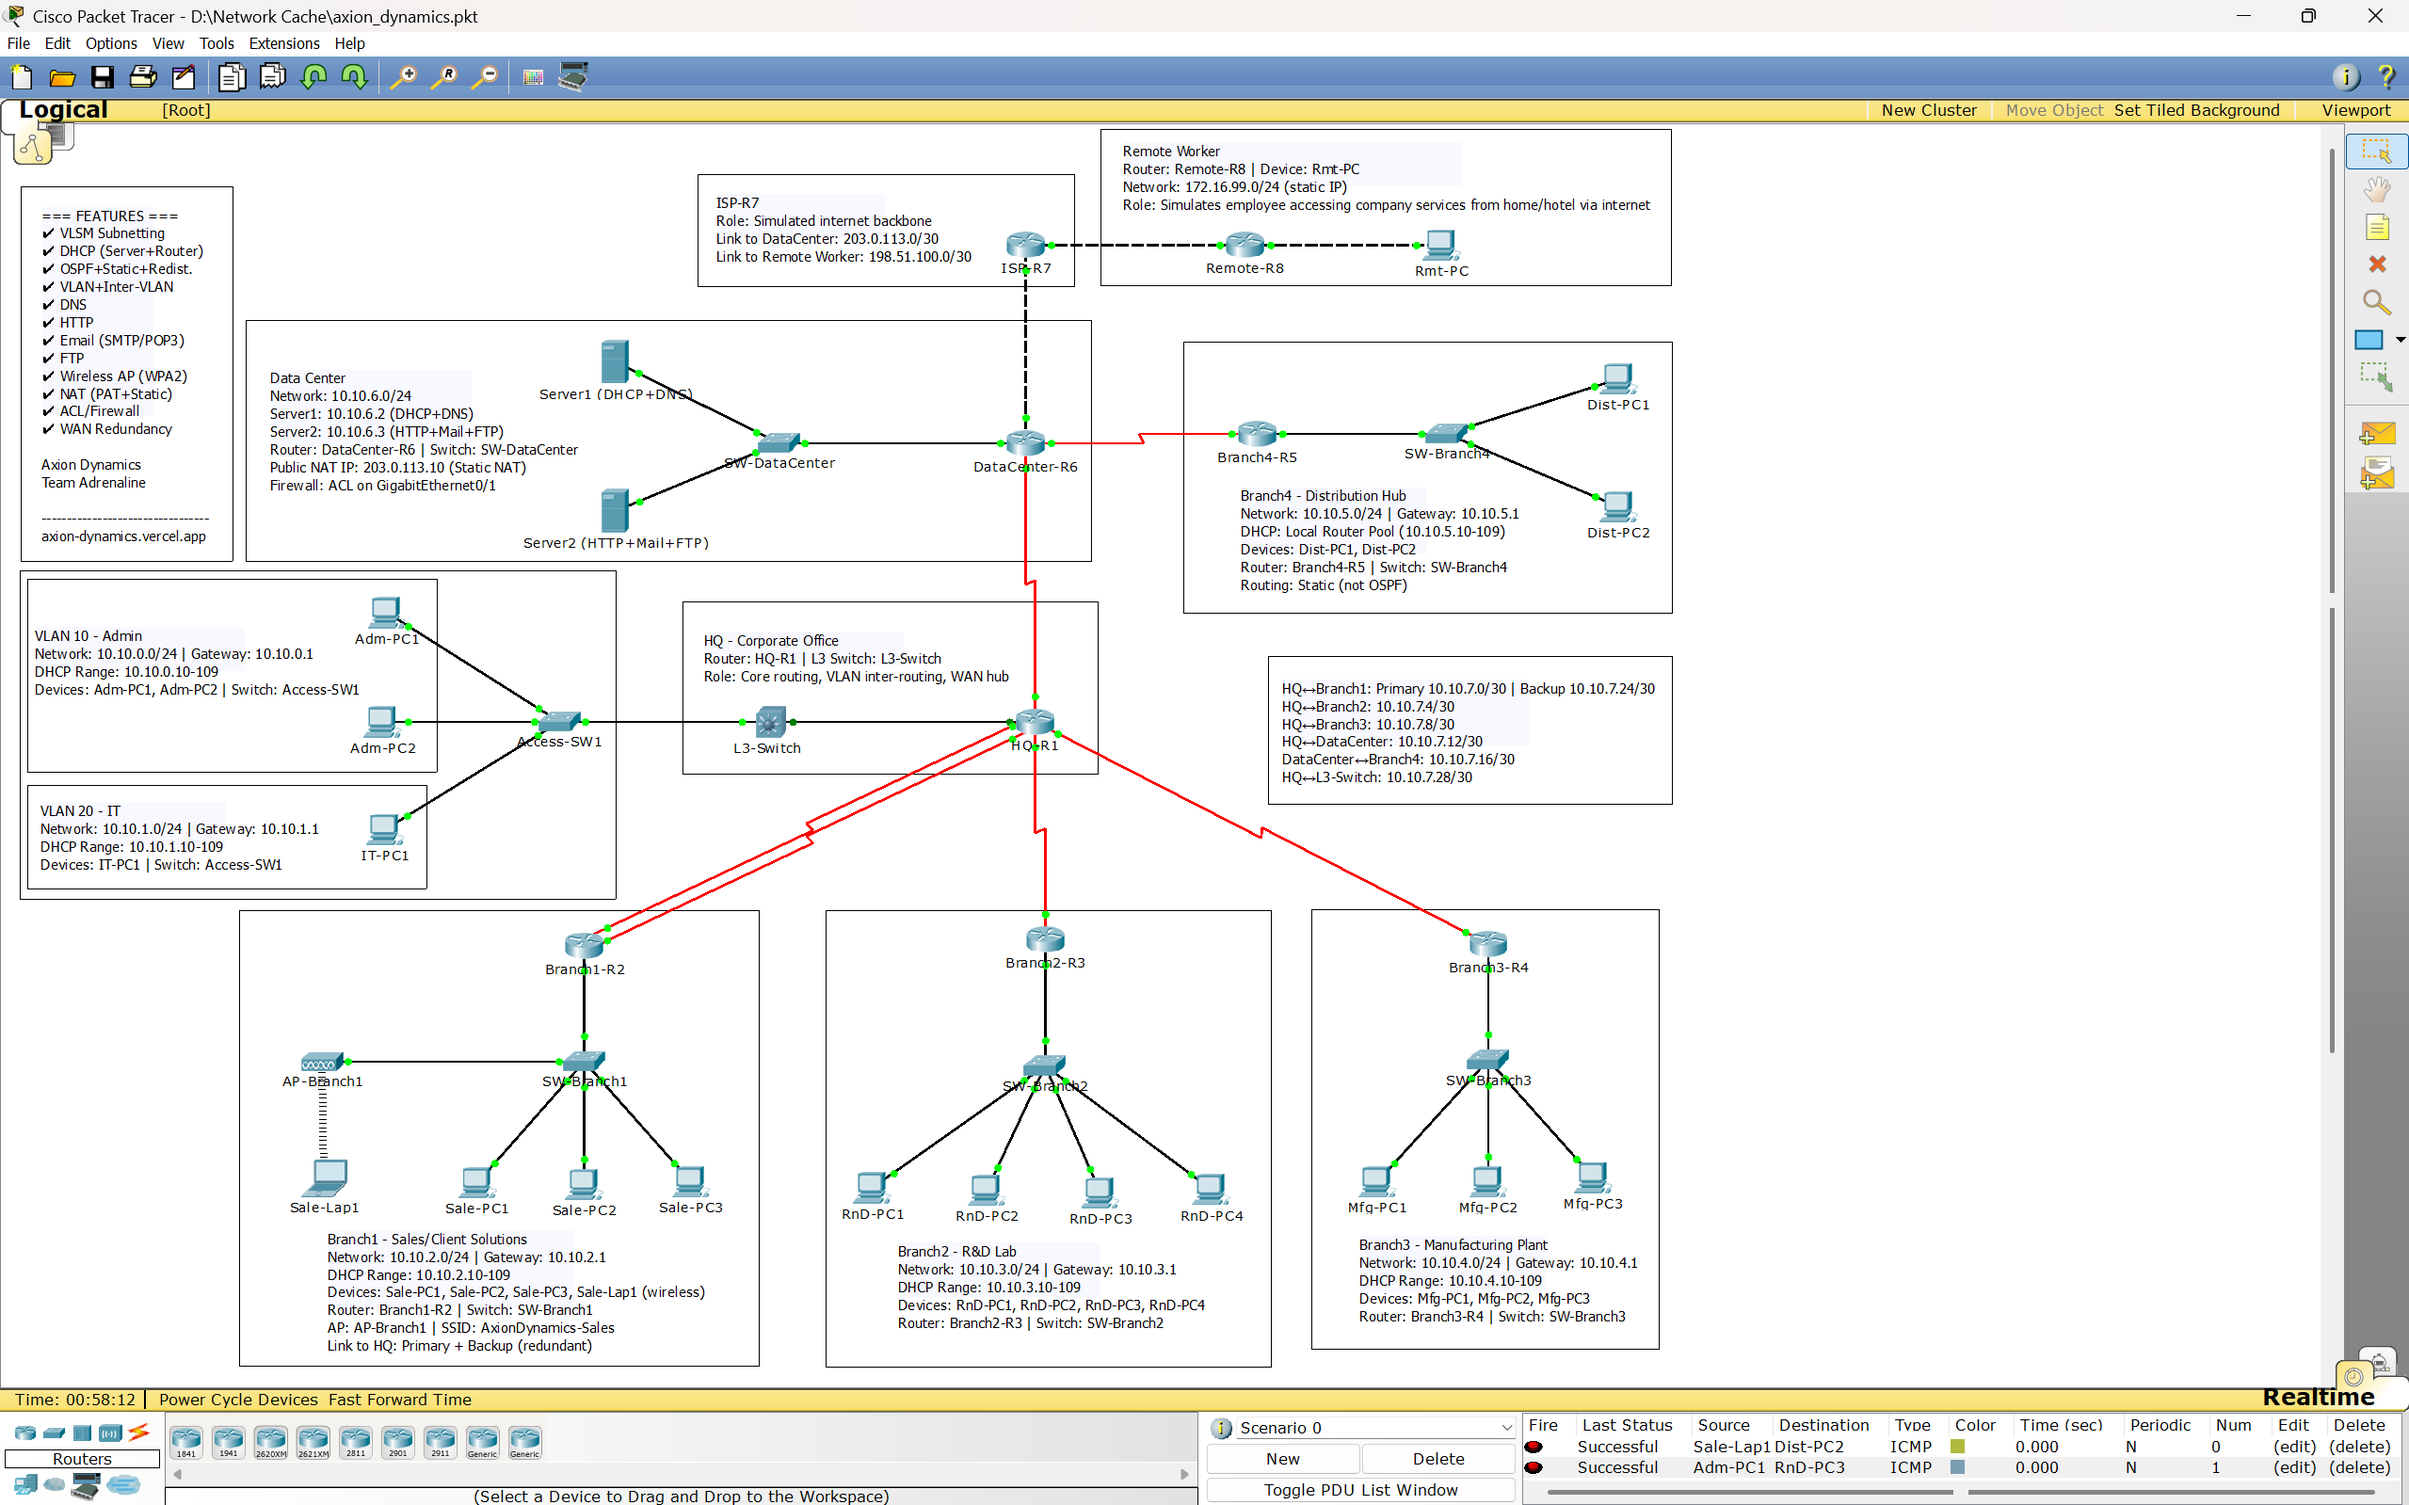
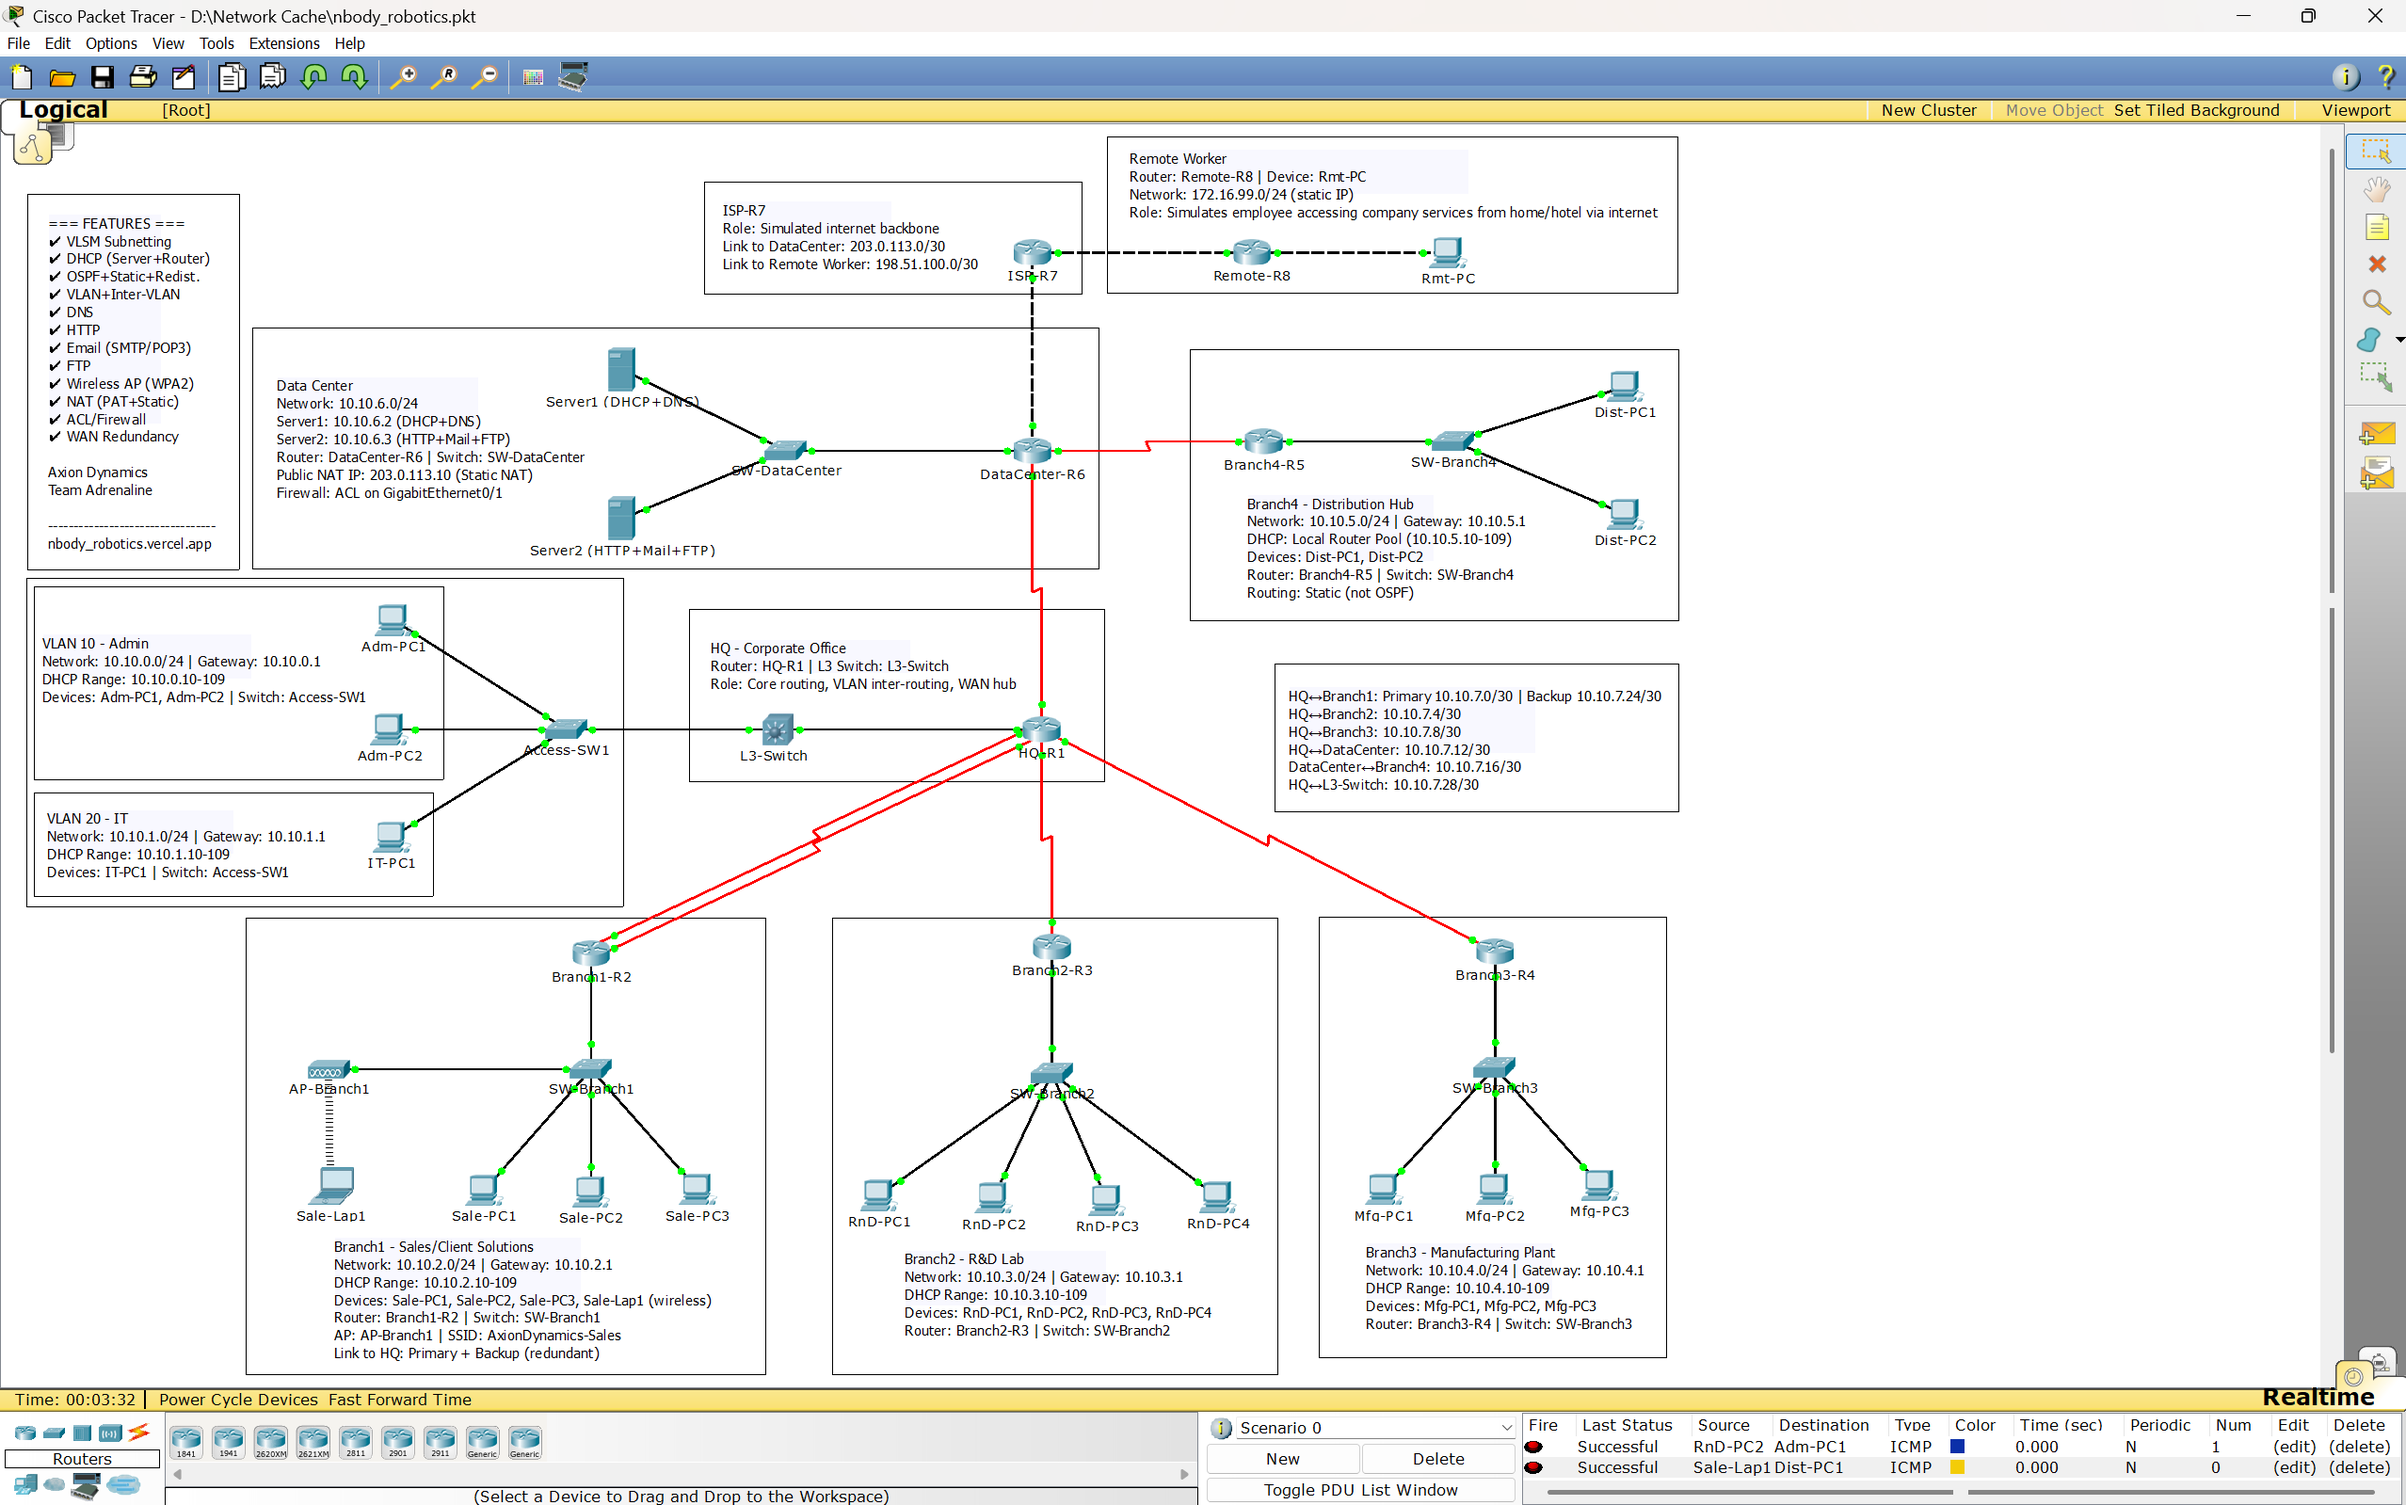
Rename company to nBody Robotics, remove ASI language, use realistic AI framing, Rewrite company statement with stronger business narrative

diff --git a/index.html b/index.html
@@ -2,7 +2,7 @@
 <html lang="en">
   <head>
     <meta charset="UTF-8" />
-    <title>Axion Dynamics Network Documentation</title>
+    <title>nBody Robotics Network Documentation</title>
     <meta name="viewport" content="width=device-width, initial-scale=1.0" />
     <script src="https://cdnjs.cloudflare.com/ajax/libs/Chart.js/4.4.0/chart.umd.min.js"></script>
     <style>
@@ -731,8 +731,8 @@
     <div class="shell">
       <nav class="sidenav" id="nav">
         <div class="brand">
-          <a href="https://axion-dynamics.vercel.app/"
-            ><strong>AXION DYNAMICS</strong></a
+          <a href="https://nbody-robotics.vercel.app/"
+            ><strong>NBODY ROBOTICS</strong></a
           ><span>Network Documentation</span>
         </div>
 
@@ -766,7 +766,7 @@
 
       <div class="content">
         <div class="hero" id="overview">
-          <h1>Axion Dynamics — Enterprise Network Documentation</h1>
+          <h1>nBody Robotics — Enterprise Network Documentation</h1>
           <div class="sub">
             Cisco Packet Tracer implementation record — Computer Networks Lab
           </div>
@@ -783,7 +783,7 @@
         <!-- OVERVIEW -->
         <div class="section">
           <p>
-            This document records the design and build of Axion Dynamics'
+            This document records the design and build of nBody Robotics'
             internal network — a seven-site enterprise topology covering Head
             Office, four branch operations, a central Data Center, and a
             simulated internet edge with a remote worker. Every subnet, cable
@@ -822,30 +822,39 @@
           <div class="mission-block">
             <div class="mission-tag">Company Statement</div>
             <p class="mission-text">
-              Axion Dynamics is an advanced manufacturing company that designs,
-              builds, and deploys ASI-powered autonomous robots and industrial
-              machinery. Headquartered in Dhaka, the company operates three
-              specialized facilities — a Client Solutions &amp; Sales office, an
-              AI-Robotics Design Lab, and a Manufacturing Plant &amp; Warehouse
-              — supported by a centralized Data Center hosting core
-              infrastructure and product-deployment services.
+              nBody Robotics designs, builds, and deploys AI-driven autonomous
+              robots and industrial machinery — spanning everything from
+              algorithm design in the lab to physical assembly on the factory
+              floor. The company doesn't treat software and hardware as separate
+              disciplines handed off between teams; every product is engineered
+              as one system from the first design sketch to the final shipped
+              unit.
             </p>
             <p class="mission-text">
-              As Axion Dynamics scaled from a small robotics workshop into a
-              full manufacturing operation spanning product design, client
-              engagement, and factory-floor production, its original flat
-              network could no longer meet the security, reliability, and
-              operational-independence needs of each function. Production-floor
-              operations, in particular, cannot depend on a live link to a
-              remote data center — a WAN outage should never halt an active
-              assembly line.
+              Headquartered in Dhaka, nBody Robotics operates across four
+              specialized facilities: a Client Solutions office running sales
+              and live product demonstrations, an AI-Robotics Design Lab for
+              R&amp;D and simulation, a Manufacturing Plant handling assembly
+              and on-floor testing, and a Distribution Hub managing outbound
+              logistics — all backed by a centralized Data Center running the
+              company's core infrastructure and public-facing services.
             </p>
             <p class="mission-text">
-              This network was designed and implemented to reflect how a real
-              robotics manufacturer would architect its infrastructure:
-              department-driven segmentation, service isolation by criticality,
-              and production-floor resilience — rather than a uniform,
-              checklist-driven topology.
+              What started as a single-office robotics workshop has scaled into
+              a full manufacturing operation, and that growth is exactly what
+              its original network couldn't keep up with. A flat network built
+              for one office breaks down once client-facing sales traffic,
+              confidential R&amp;D work, and live production systems all have to
+              run on the same wire without one outage taking down the others.
+            </p>
+            <p class="mission-text">
+              The clearest example is the production floor: an assembly line
+              cannot depend on a live link to a remote server just to hand a
+              workstation its IP address. So the Manufacturing and Distribution
+              segments run their own local routing and DHCP, independent of the
+              Data Center — the network is built the same way the company runs
+              its operations: every part able to keep functioning on its own,
+              without being cut off from the whole.
             </p>
           </div>
 
@@ -1047,7 +1056,7 @@
           <div class="shot-wrap" onclick="openLightbox()">
             <img
               src="./pt_topology_screenshot.png"
-              alt="Full Axion Dynamics topology as built in Cisco Packet Tracer"
+              alt="Full nBody Robotics topology as built in Cisco Packet Tracer"
               loading="lazy"
             />
             <span class="shot-hint">Click to expand</span>
@@ -1058,7 +1067,7 @@
           <span class="lightbox-close">&times;</span>
           <img
             src="./pt_topology_screenshot.png"
-            alt="Full Axion Dynamics topology, expanded view"
+            alt="Full nBody Robotics topology, expanded view"
           />
         </div>
 
@@ -2216,7 +2225,7 @@ Default Gateway . 10.10.5.1</pre
           <div id="t-dns" class="tab-panel">
             <p>
               DNS hosted on Server1 under the
-              <span class="mono">axiondynamics.com</span> domain (switched from
+              <span class="mono">nbodyrobotics.com</span> domain (switched from
               <span class="mono">.local</span> after the mail client rejected
               that TLD as an invalid email domain — see Troubleshooting).
             </p>
@@ -2228,17 +2237,17 @@ Default Gateway . 10.10.5.1</pre
                   <th>Points to</th>
                 </tr>
                 <tr>
-                  <td class="mono">www.axiondynamics.com</td>
+                  <td class="mono">www.nbodyrobotics.com</td>
                   <td>A</td>
                   <td class="mono">10.10.6.3</td>
                 </tr>
                 <tr>
-                  <td class="mono">mail.axiondynamics.com</td>
+                  <td class="mono">mail.nbodyrobotics.com</td>
                   <td>A</td>
                   <td class="mono">10.10.6.3</td>
                 </tr>
                 <tr>
-                  <td class="mono">ftp.axiondynamics.com</td>
+                  <td class="mono">ftp.nbodyrobotics.com</td>
                   <td>A</td>
                   <td class="mono">10.10.6.3</td>
                 </tr>
@@ -2255,11 +2264,11 @@ Default Gateway . 10.10.5.1</pre
               and HTTP together.
             </p>
             <div class="cfg-head">
-              <span>PC0 browser</span><span>http://www.axiondynamics.com</span>
+              <span>PC0 browser</span><span>http://www.nbodyrobotics.com</span>
             </div>
             <pre class="block">
 Page rendered:
-  AXION DYNAMICS — Engineering Intelligence...
+  NBODY ROBOTICS — Engineering Intelligence...
   About Us / Our Divisions / Project Team / Course Instructor</pre
             >
           </div>
@@ -2267,19 +2276,19 @@ Page rendered:
           <div id="t-mail" class="tab-panel">
             <p>
               SMTP + POP3 on Server2, domain
-              <span class="mono">axiondynamics.com</span>, accounts
+              <span class="mono">nbodyrobotics.com</span>, accounts
               <span class="mono">admin</span>, <span class="mono">sales</span>,
               <span class="mono">hr</span>.
             </p>
             <div class="cfg-head">
               <span
-                >PC0 sales@axiondynamics.com → PC1 admin@axiondynamics.com</span
+                >PC0 sales@nbodyrobotics.com → PC1 admin@nbodyrobotics.com</span
               ><span>Mail Browser log</span>
             </div>
             <pre class="block">
-Sending mail to admin@axiondynamics.com, subject: Test Mail
-DNS resolving mail.axiondynamics.com -> 10.10.6.3
-Receiving mail from POP3 Server mail.axiondynamics.com
+Sending mail to admin@nbodyrobotics.com, subject: Test Mail
+DNS resolving mail.nbodyrobotics.com -> 10.10.6.3
+Receiving mail from POP3 Server mail.nbodyrobotics.com
 Receive Mail Success.</pre
             >
           </div>
@@ -2295,8 +2304,8 @@ Receive Mail Success.</pre
               <span>RnD-PC2 command prompt</span><span>live session</span>
             </div>
             <pre class="block">
-PC&gt;ftp mail.axiondynamics.com
-Connected to mail.axiondynamics.com
+PC&gt;ftp mail.nbodyrobotics.com
+Connected to mail.nbodyrobotics.com
 220- Welcome to PT Ftp server
 Username: ftpuser
 331- Username ok, need password
@@ -2598,7 +2607,7 @@ ip route 172.16.99.0 255.255.255.0 198.51.100.2</pre
         </div>
 
         <footer>
-          Axion Dynamics — Computer Networks Lab · Team Adrenaline · Daffodil
+          nBody Robotics — Computer Networks Lab · Team Adrenaline · Daffodil
           International University
         </footer>
       </div>
